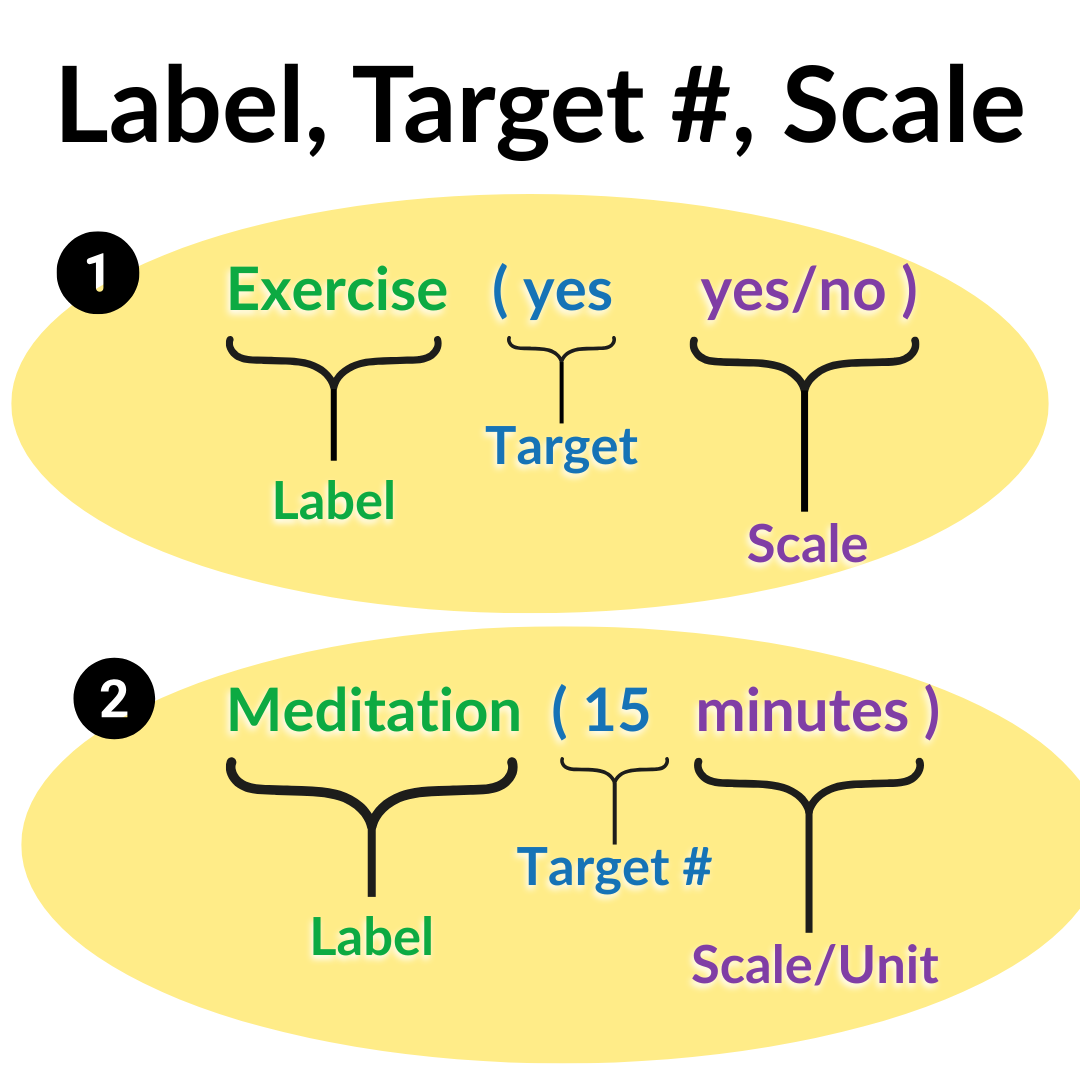
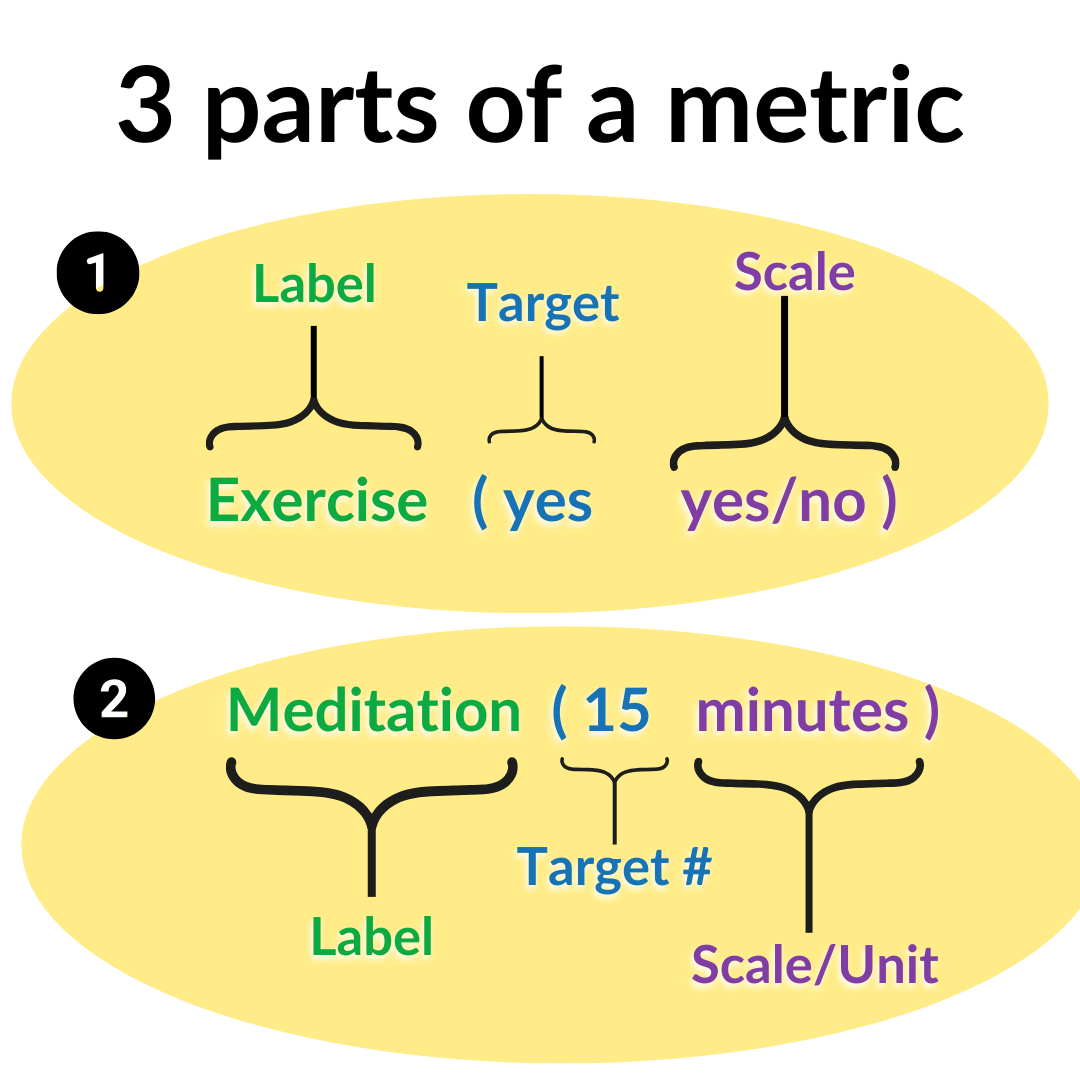
Apply recent updates to Render and Functions index.js

Changed region(s): [[0.1833, 0.2139, 0.8556, 0.55], [0.0306, 0.0611, 0.9472, 0.1528], [0.3667, 0.3972, 0.3972, 0.4278]]

diff --git a/Render/index.js b/Render/index.js
@@ -4063,8 +4063,6 @@ client.on(Events.InteractionCreate, async interaction => {
         // Prepare the message with the explanatory image and the continue button
         const explainerEmbed = new EmbedBuilder()
             .setColor('#5865F2')
-            .setTitle('How to Define a Metric')
-            .setDescription("Each metric you track needs three things:")
             .setImage('https://raw.githubusercontent.com/dwolovsky/discord-logger-bot/refs/heads/firebase-migration/Active%20Pictures/Label%20Target%20Scale.png'); // Replace with your actual image URL
 
         const continueButton = new ButtonBuilder()
@@ -4075,7 +4073,7 @@ client.on(Events.InteractionCreate, async interaction => {
         const row = new ActionRowBuilder().addComponents(continueButton);
 
         await interaction.editReply({
-            content: "First, let's define your **Daily Outcome**. This is the core result you want to see change.",
+            content: "Let's define your Metrics! Each metric has 3 parts.",
             embeds: [explainerEmbed],
             components: [row]
         });
